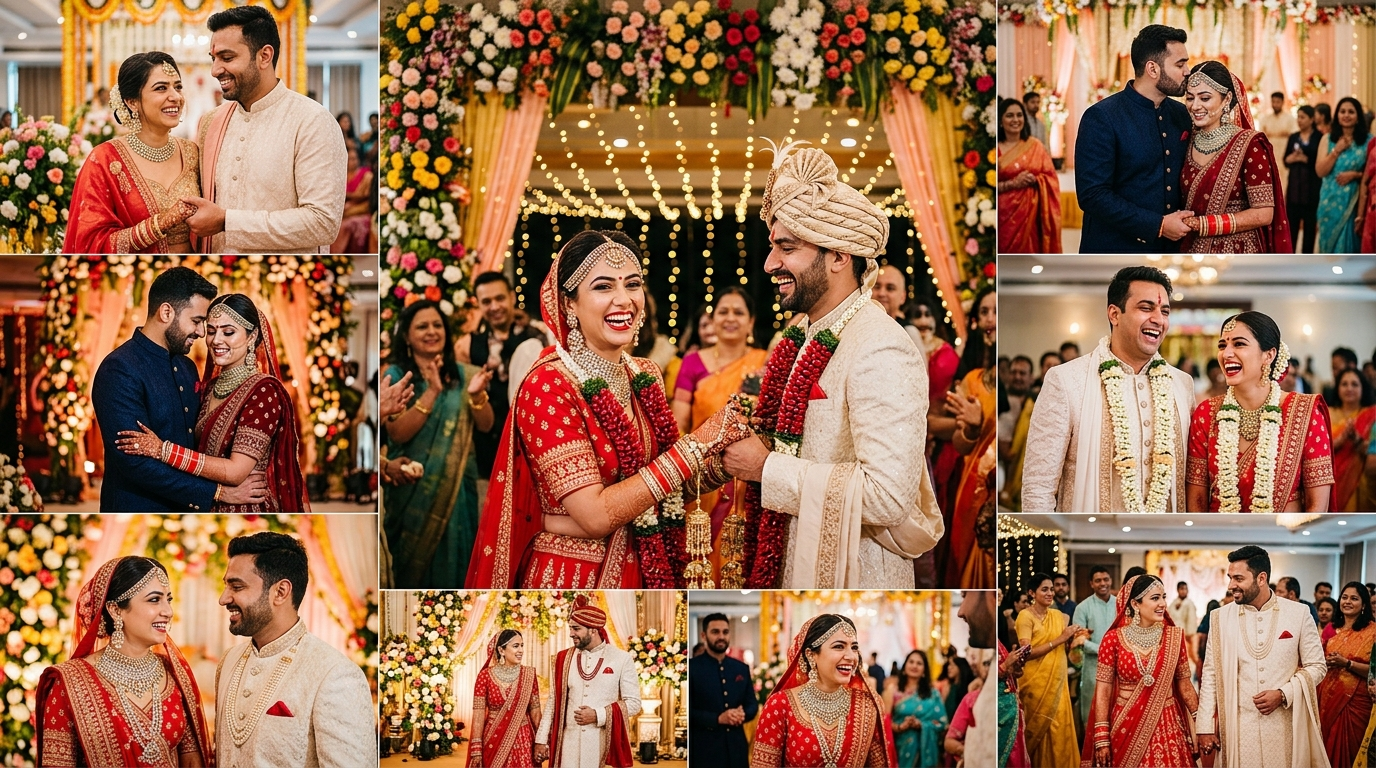
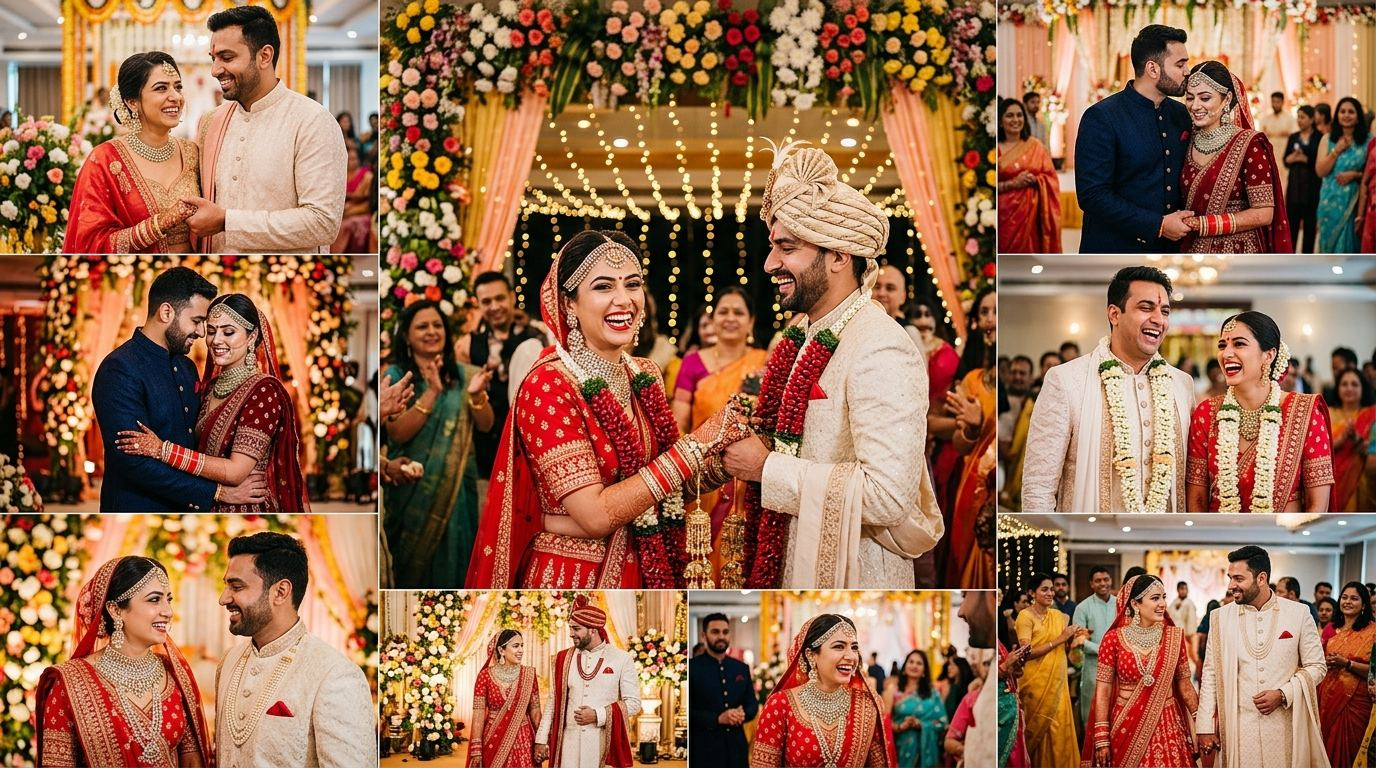
perf(landing): convert hero collage to WebP (80% size reduction) and optimize OG image for sub-second mobile LCP

diff --git a/sindhiMatrimonyUserPanel/src/screens/landingScreen/components/HeroSection.tsx b/sindhiMatrimonyUserPanel/src/screens/landingScreen/components/HeroSection.tsx
@@ -14,7 +14,7 @@ const HeroSectionComponent: React.FC<HeroSectionProps> = ({ onLoginClick }) => {
       {/* Background Couples Collage Grid (Fixed to Viewport, Clipped strictly to Hero Section) */}
       <div className="fixed inset-0 z-0 pointer-events-none overflow-hidden" aria-hidden="true">
         <Image
-          src="/images/couples-collage.jpg"
+          src="/images/couples-collage.webp"
           alt="Happy Sindhi Wedding Couples and Newlyweds"
           fill
           priority
